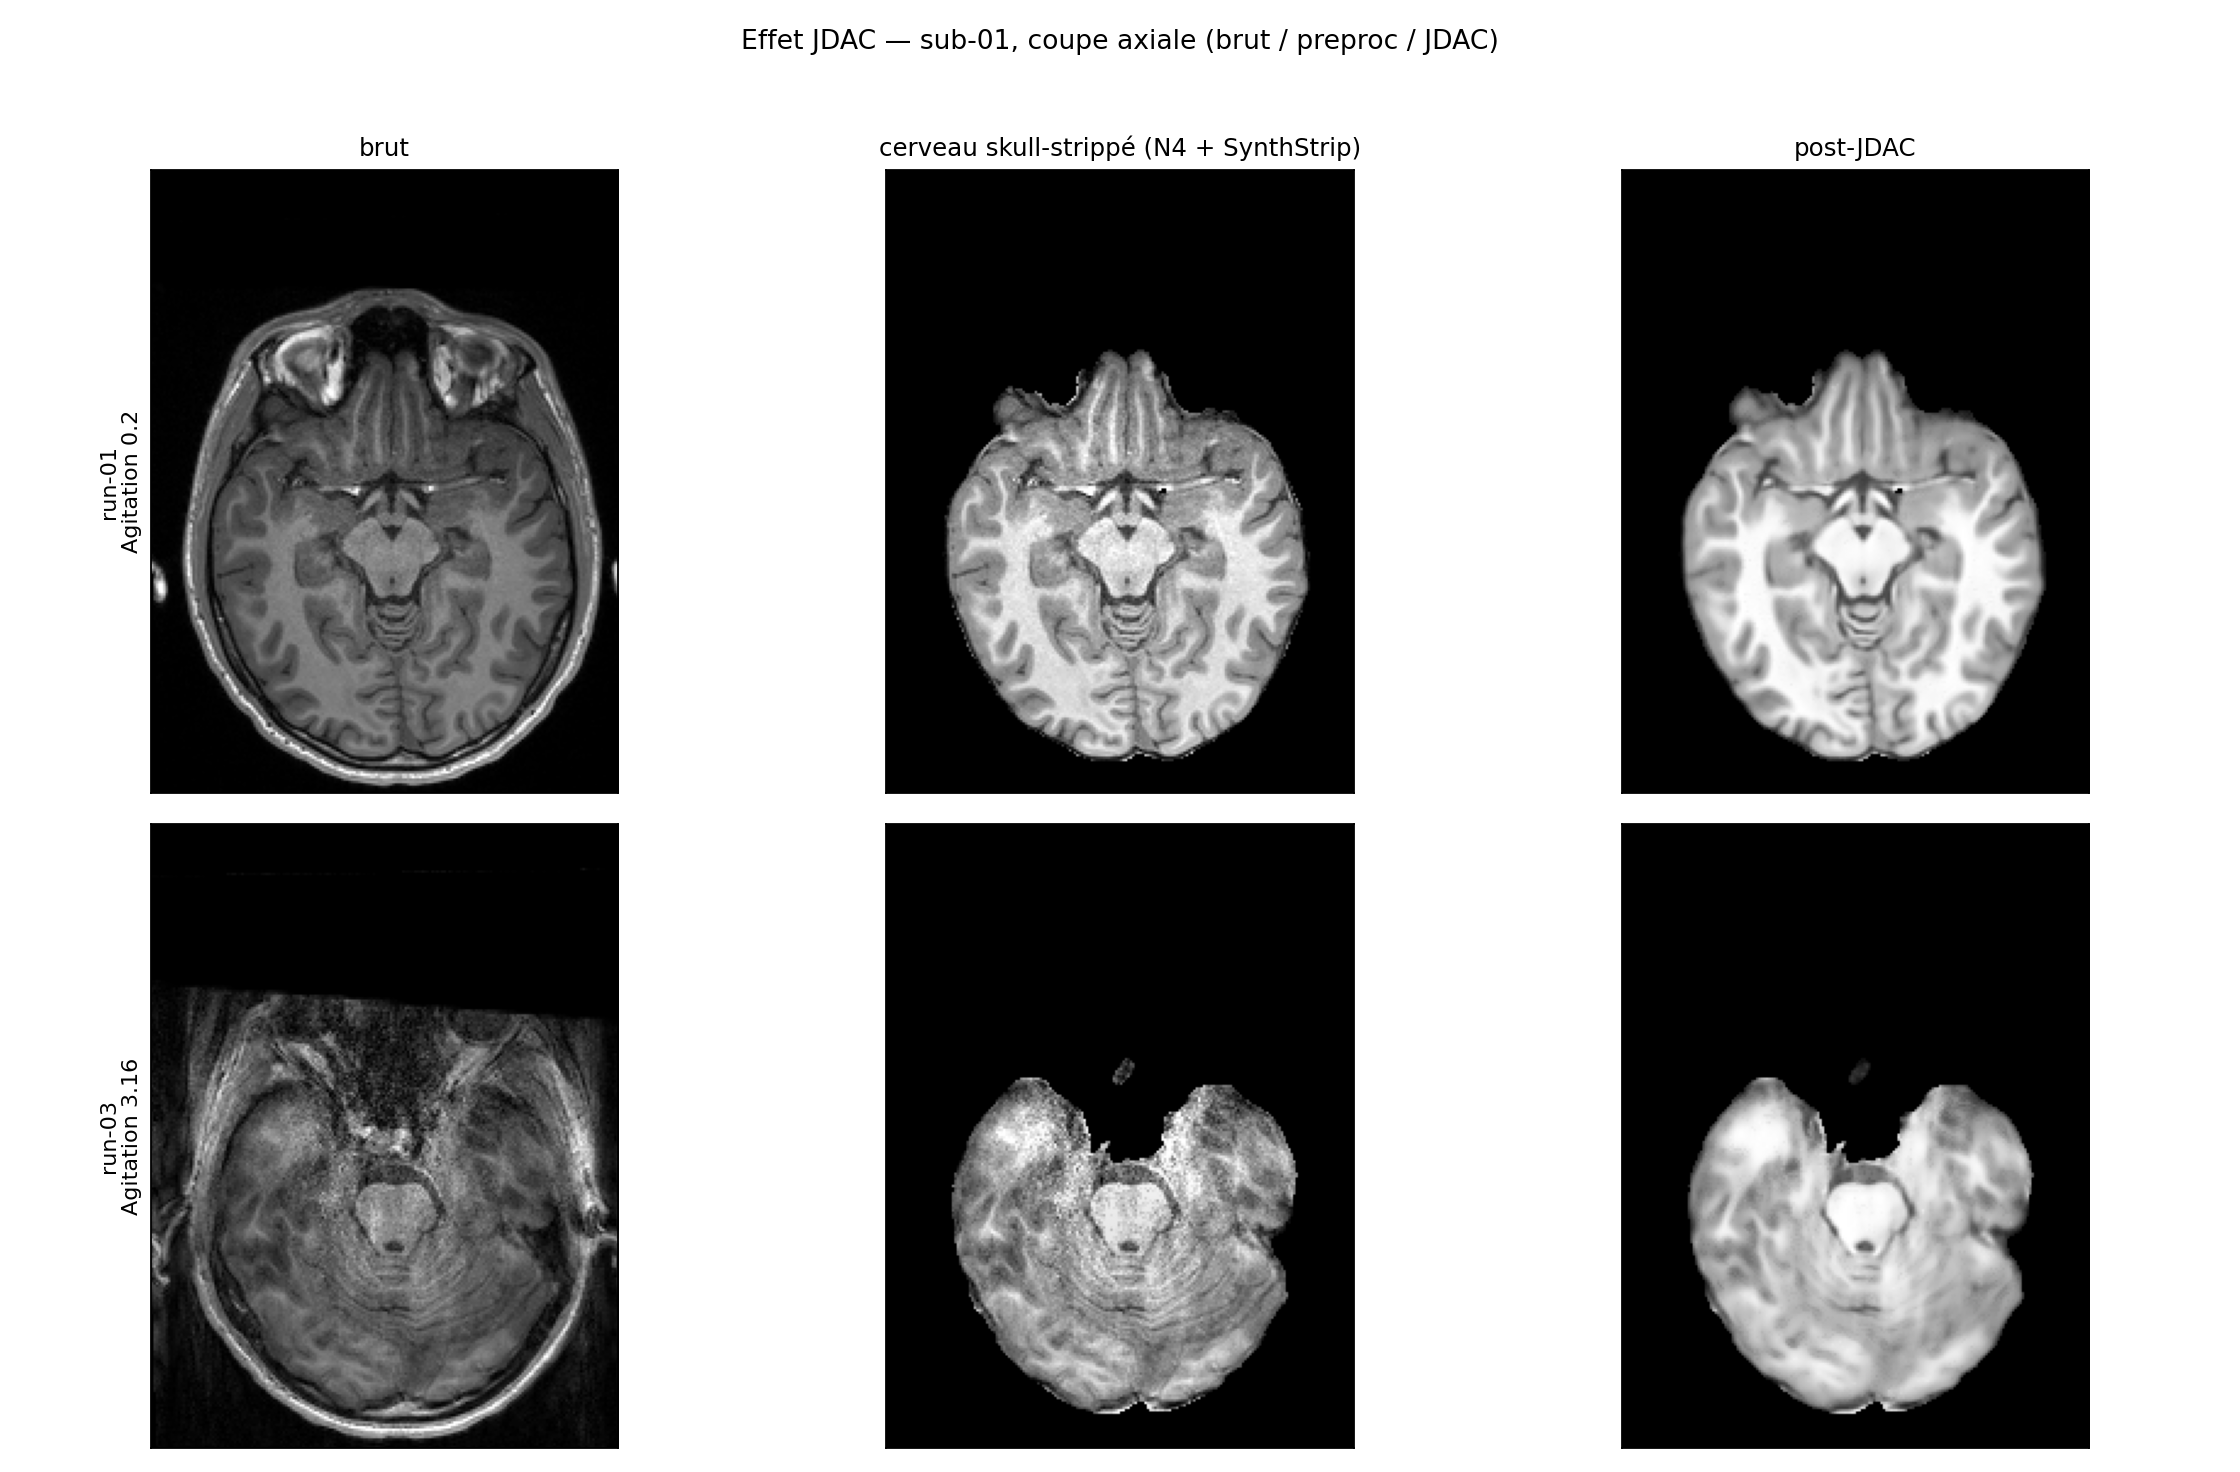
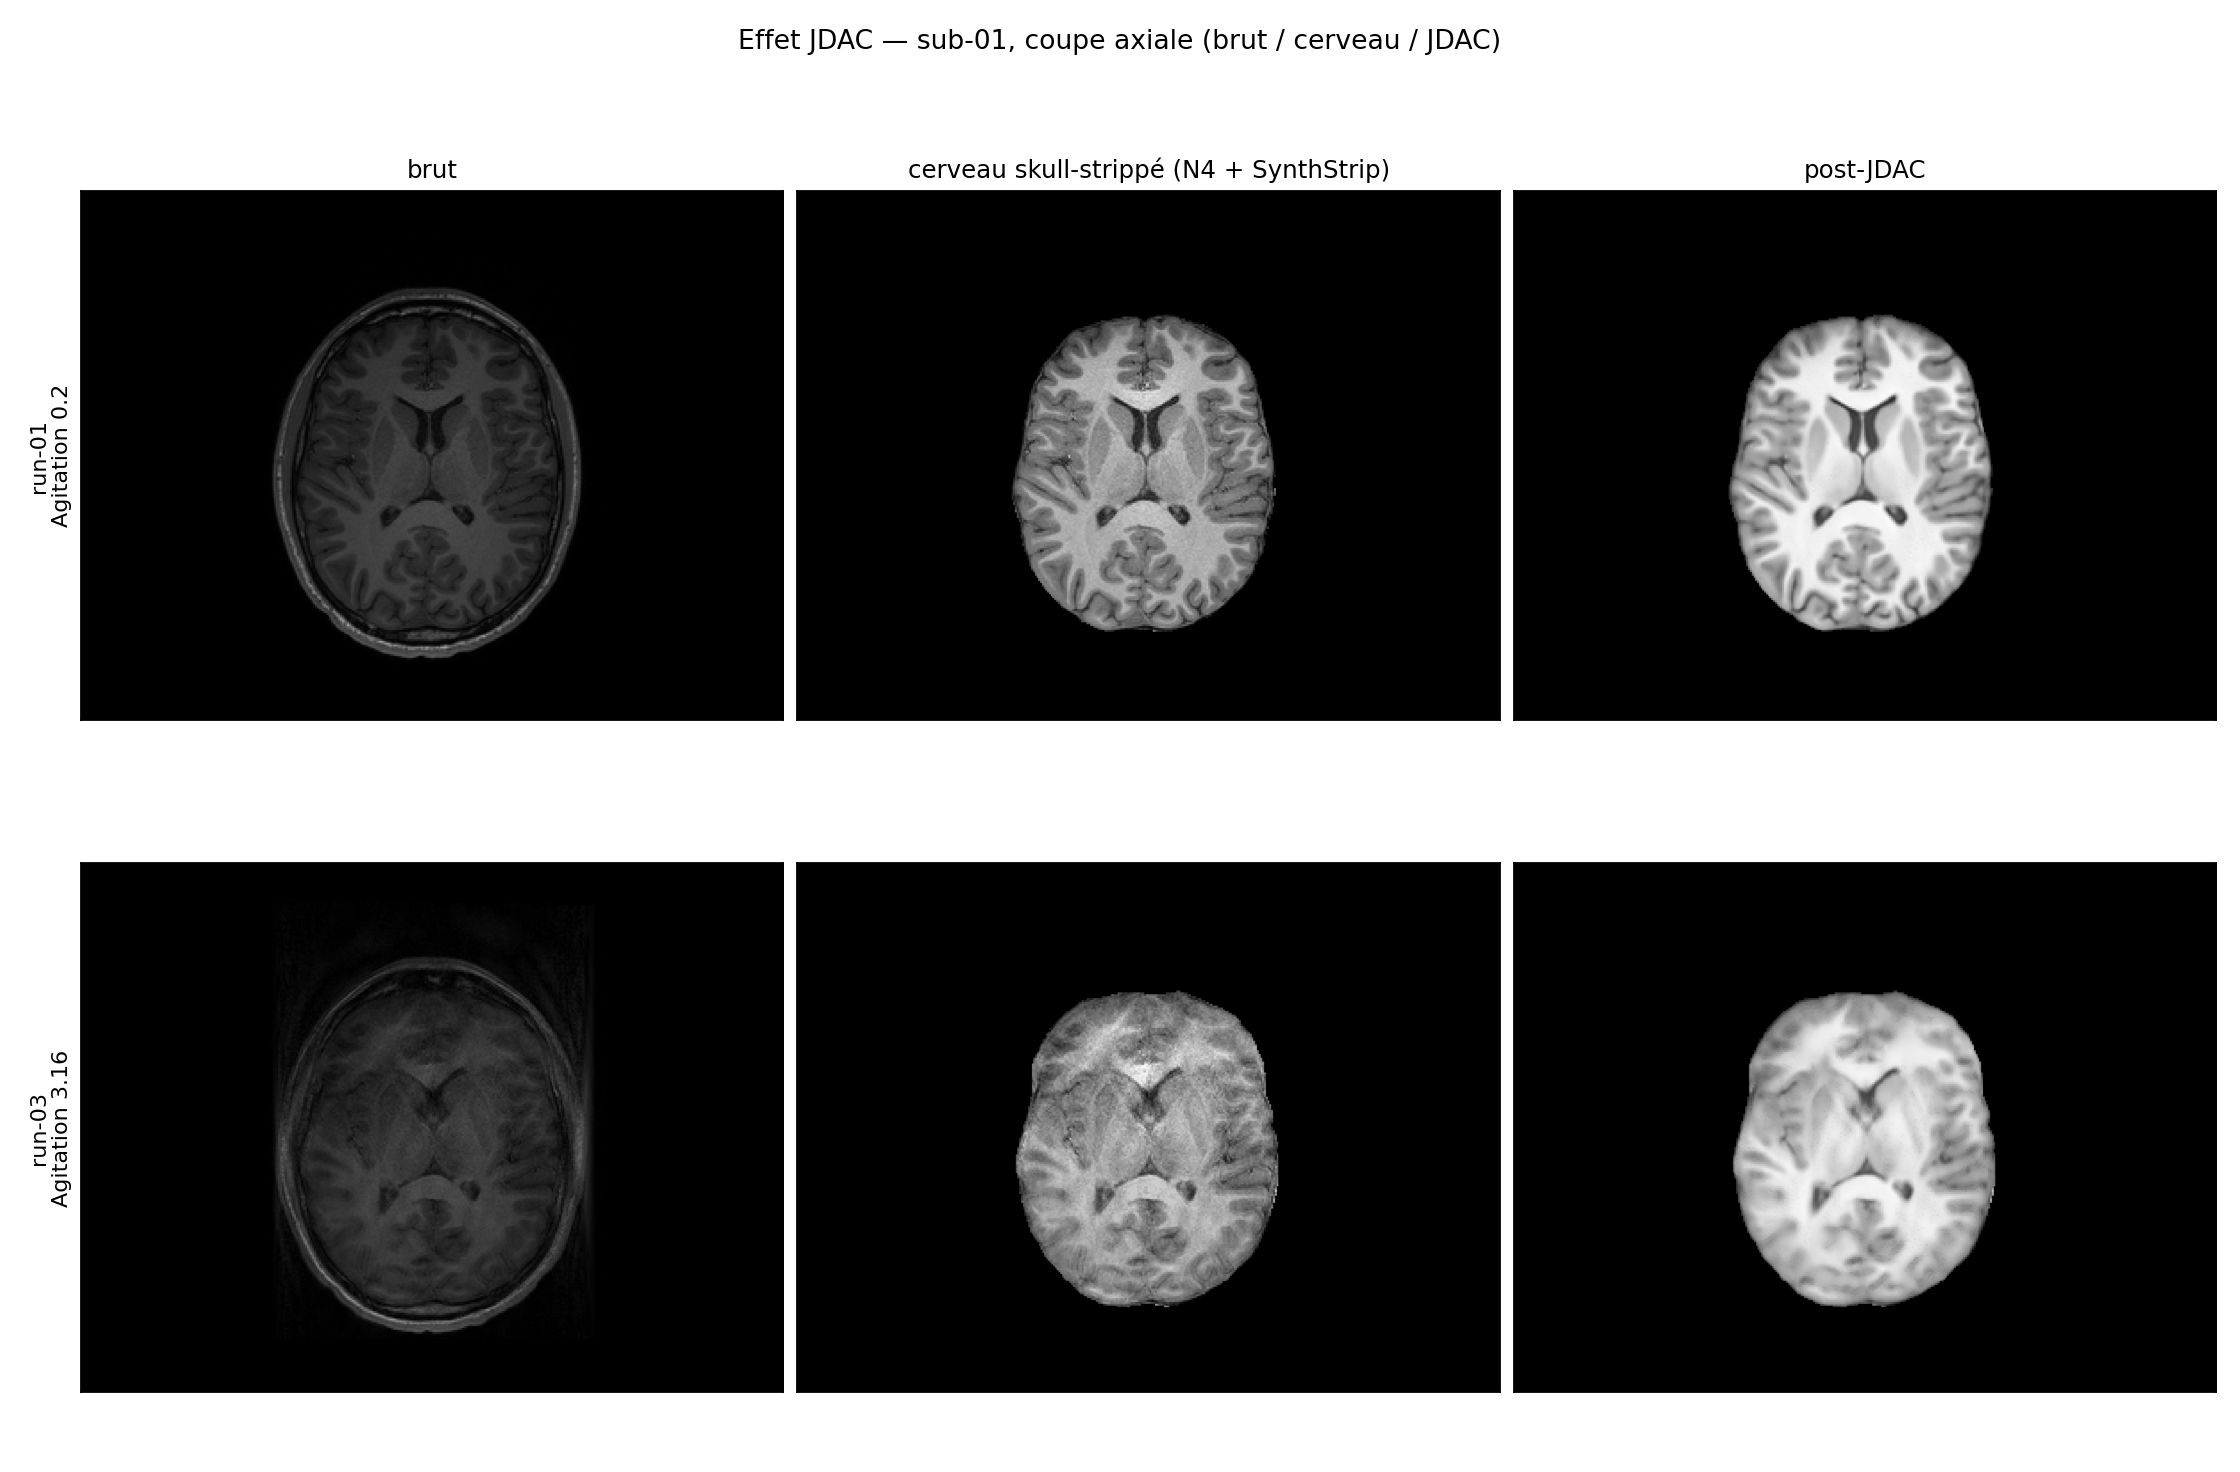
assemble_jdac_fig.py : montage figure JDAC sub-01 run-01/03 depuis captures FSLeyes (modele fig_preproc_steps)

diff --git a/pipelines/ds004332/phase3_JDAC/assemble_jdac_fig.py b/pipelines/ds004332/phase3_JDAC/assemble_jdac_fig.py
@@ -1,0 +1,59 @@
+#!/usr/bin/env python3
+"""
+Assemble la figure JDAC a partir des captures FSLeyes manuelles (~/Pictures/jdac_images).
+Meme mise en page que fig_preproc_steps.py :
+    lignes   = sub-01 run-01 (Agitation 0.20) et run-03 (3.16)
+    colonnes = brut | cerveau skull-strippe (N4 + SynthStrip) | post-JDAC
+
+Sortie : results/ds004332/phase3_JDAC/brut_preproc_jdac_sub01.png
+
+Usage (env cortical-motion) :
+    python assemble_jdac_fig.py
+"""
+from pathlib import Path
+
+import matplotlib
+matplotlib.use("Agg")
+import matplotlib.pyplot as plt
+import matplotlib.image as mpimg
+
+HOME = Path.home()
+SHOTS = HOME / "Pictures/jdac_images"
+OUT = HOME / "Documents/jdac-motion-correction/results/ds004332/phase3_JDAC/brut_preproc_jdac_sub01.png"
+
+# (run, score Agitation, prefixe des captures)
+RUNS = [("run-01", 0.20, "sub01_run01"), ("run-03", 3.16, "sub01_run03")]
+# (suffixe fichier, titre colonne)
+COLS = [("", "brut"),
+        ("_brain", "cerveau skull-strippé (N4 + SynthStrip)"),
+        ("_jdac", "post-JDAC")]
+
+
+def main():
+    fig, axes = plt.subplots(len(RUNS), 3, figsize=(14, 4.6 * len(RUNS)))
+
+    for row, (run, agit, prefix) in enumerate(RUNS):
+        for col, (suffix, _) in enumerate(COLS):
+            ax = axes[row, col]
+            path = SHOTS / f"{prefix}{suffix}.png"
+            if path.is_file():
+                ax.imshow(mpimg.imread(str(path)))
+            else:
+                ax.text(0.5, 0.5, f"MANQUE\n{path.name}", color="red",
+                        ha="center", va="center")
+            ax.set_xticks([]); ax.set_yticks([])
+        axes[row, 0].set_ylabel(f"{run}\nAgitation {agit}", fontsize=10)
+
+    for col, (_, title) in enumerate(COLS):
+        axes[0, col].set_title(title, fontsize=11)
+
+    fig.suptitle("Effet JDAC — sub-01, coupe axiale (brut / cerveau / JDAC)", fontsize=12)
+    fig.tight_layout(rect=[0, 0, 1, 0.96])
+    fig.subplots_adjust(wspace=0.02, hspace=0.05)
+    OUT.parent.mkdir(parents=True, exist_ok=True)
+    fig.savefig(str(OUT), dpi=160)
+    print(f"Figure -> {OUT}")
+
+
+if __name__ == "__main__":
+    main()